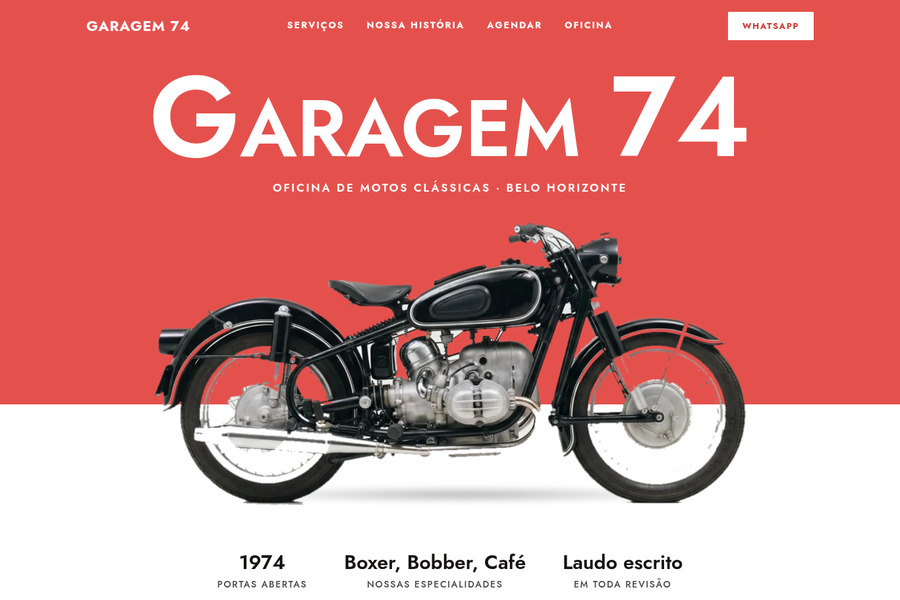
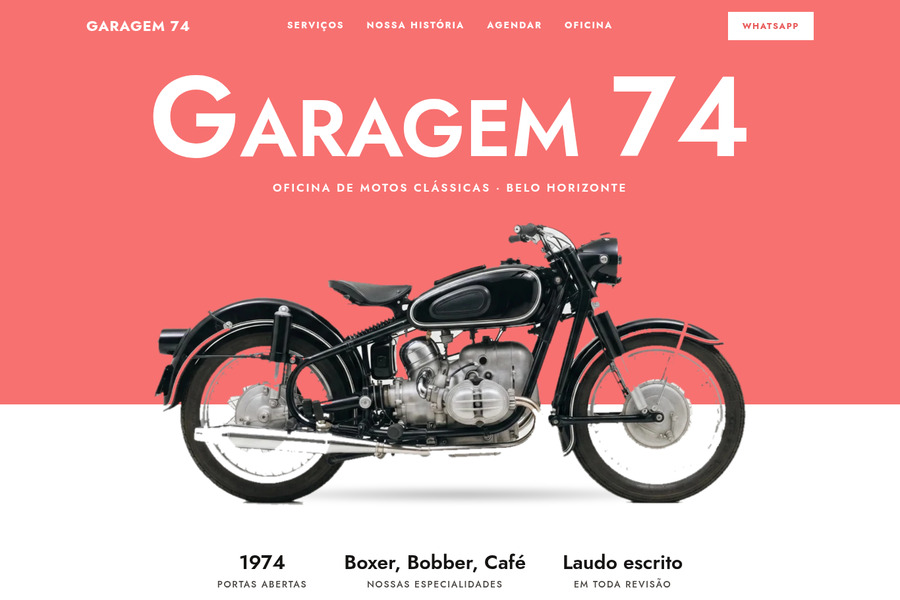
Garagem 74: coral do pin (#f77170), Nossa Historia em escala do pin, cover regenerada

diff --git a/src/components/models/MotoFold.tsx b/src/components/models/MotoFold.tsx
@@ -1,7 +1,7 @@
 import { useEffect, useState } from "react";
 
 /** Oficina de motos classicas, construida do zero a partir de um pin de site coral e branco ("Vintage Moto"): titulo gigante em capitulares, moto recortada cruzando a divisa entre o bloco coral e o branco. Foto real da moto (Gemini). Agendamento de revisao que fecha no WhatsApp. */
-const INK = "#161413", CO = "#e4514d", CO2 = "#c93e3a", BG = "#ffffff", SOFT = "#fdeceb", MU = "#6b6361";
+const INK = "#161413", CO = "#f77170", CO2 = "#e85a59", BG = "#ffffff", SOFT = "#fdeceb", MU = "#6b6361";
 const SERV = [
   { t: "Revisão completa", d: "Óleo, velas, folgas de válvula, corrente, cabos, freios e uma lista escrita de tudo que foi visto, moto por moto.", p: "a partir de R$ 380" },
   { t: "Motor e câmbio", d: "Abertura, retífica e remontagem de motores boxer, monocilíndricos e dois tempos, com peças medidas e originais quando existem.", p: "sob orçamento" },
@@ -68,8 +68,8 @@ export function MotoFold({ client }: { client?: { name?: string; whatsapp?: stri
         .mt .strip b{display:block;font-size:30px;font-weight:600}.mt .strip span{font-size:14px;font-weight:500;letter-spacing:.12em;text-transform:uppercase;color:#4a4543}
         .mt h2{font-weight:600;font-size:clamp(34px,4.4vw,52px);letter-spacing:.01em;margin:0;line-height:1.05}
         .mt h2 .c{font-size:1.18em}
-        .mt .story{padding:96px 0 40px;display:grid;grid-template-columns:1fr 340px;gap:70px;align-items:center;max-width:900px;margin:0 auto}
-        .mt .story p{font-size:19px;font-weight:500;line-height:1.7;margin:20px 0 0;color:#2b2625}
+        .mt .story{padding:96px 0 40px;display:grid;grid-template-columns:1fr 250px;gap:90px;align-items:center;max-width:900px;margin:0 auto}
+        .mt .story h2{font-size:clamp(26px,2.8vw,38px)}.mt .story p{font-size:16px;font-weight:500;line-height:1.7;margin:20px 0 0;color:#2b2625}
         .mt .link{display:inline-block;margin-top:24px;font-weight:700;font-size:14px;letter-spacing:.16em;text-transform:uppercase;border-bottom:2px solid ${CO};padding-bottom:4px;color:${INK};text-decoration:none;cursor:pointer}
         .mt .serv{padding:84px 0 40px}
         .mt .row{border-top:2px solid ${INK};cursor:pointer}
